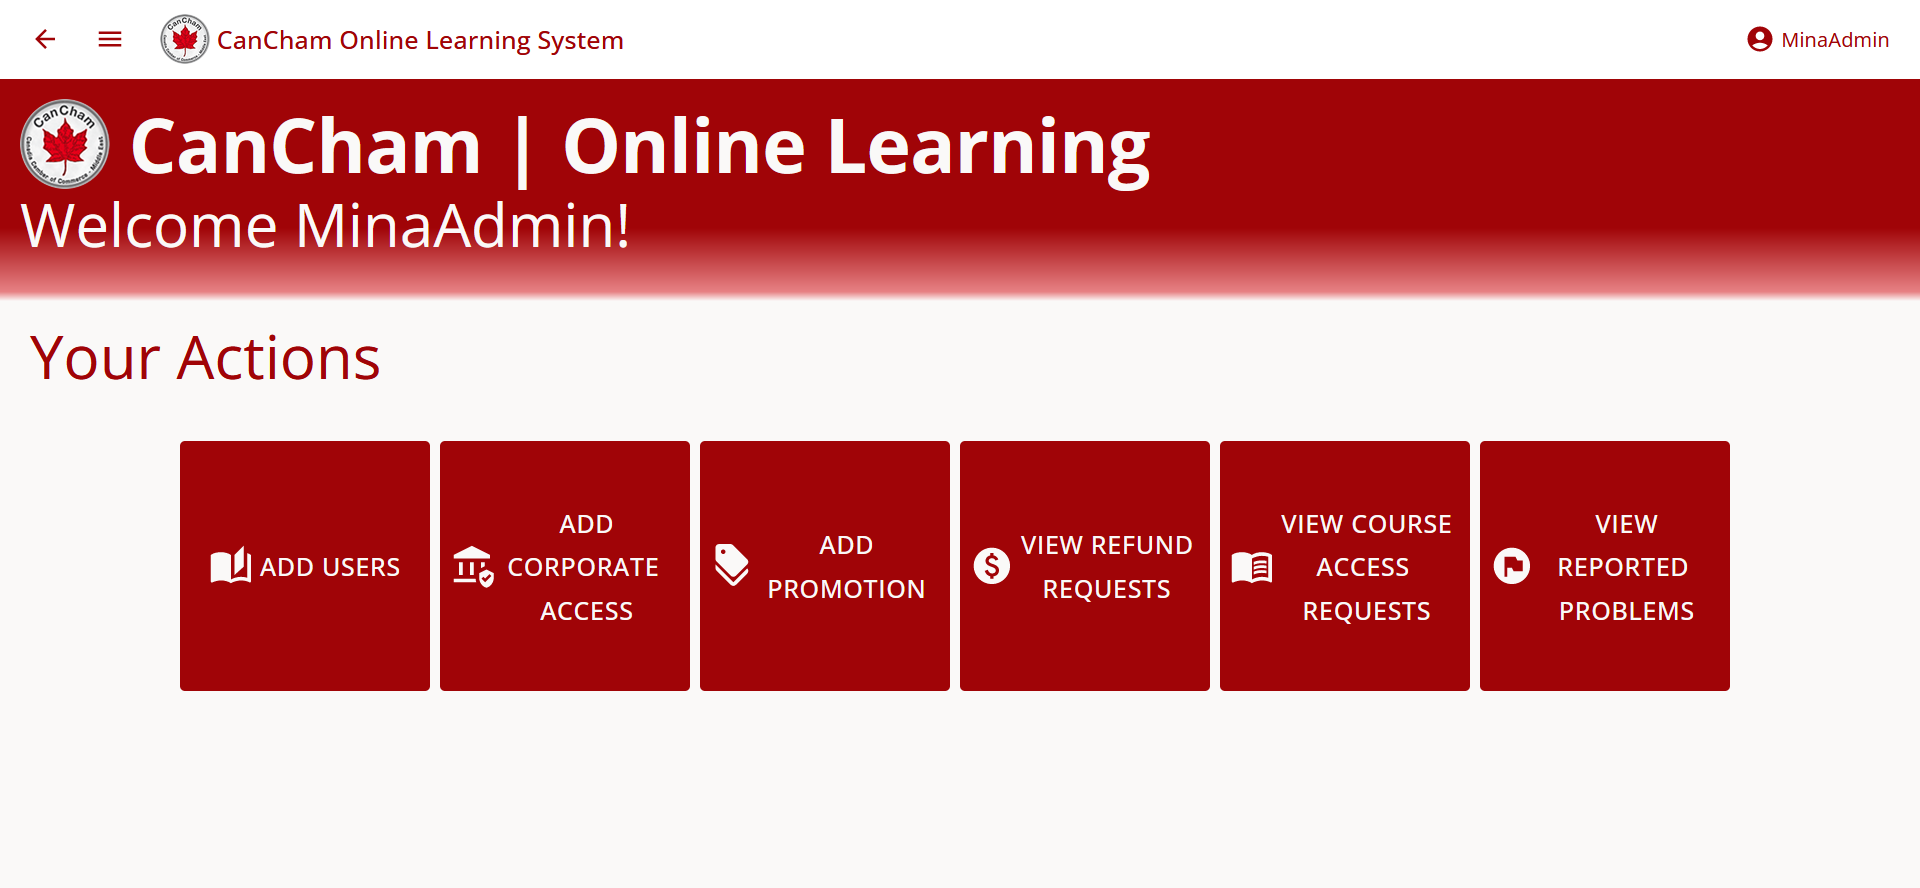
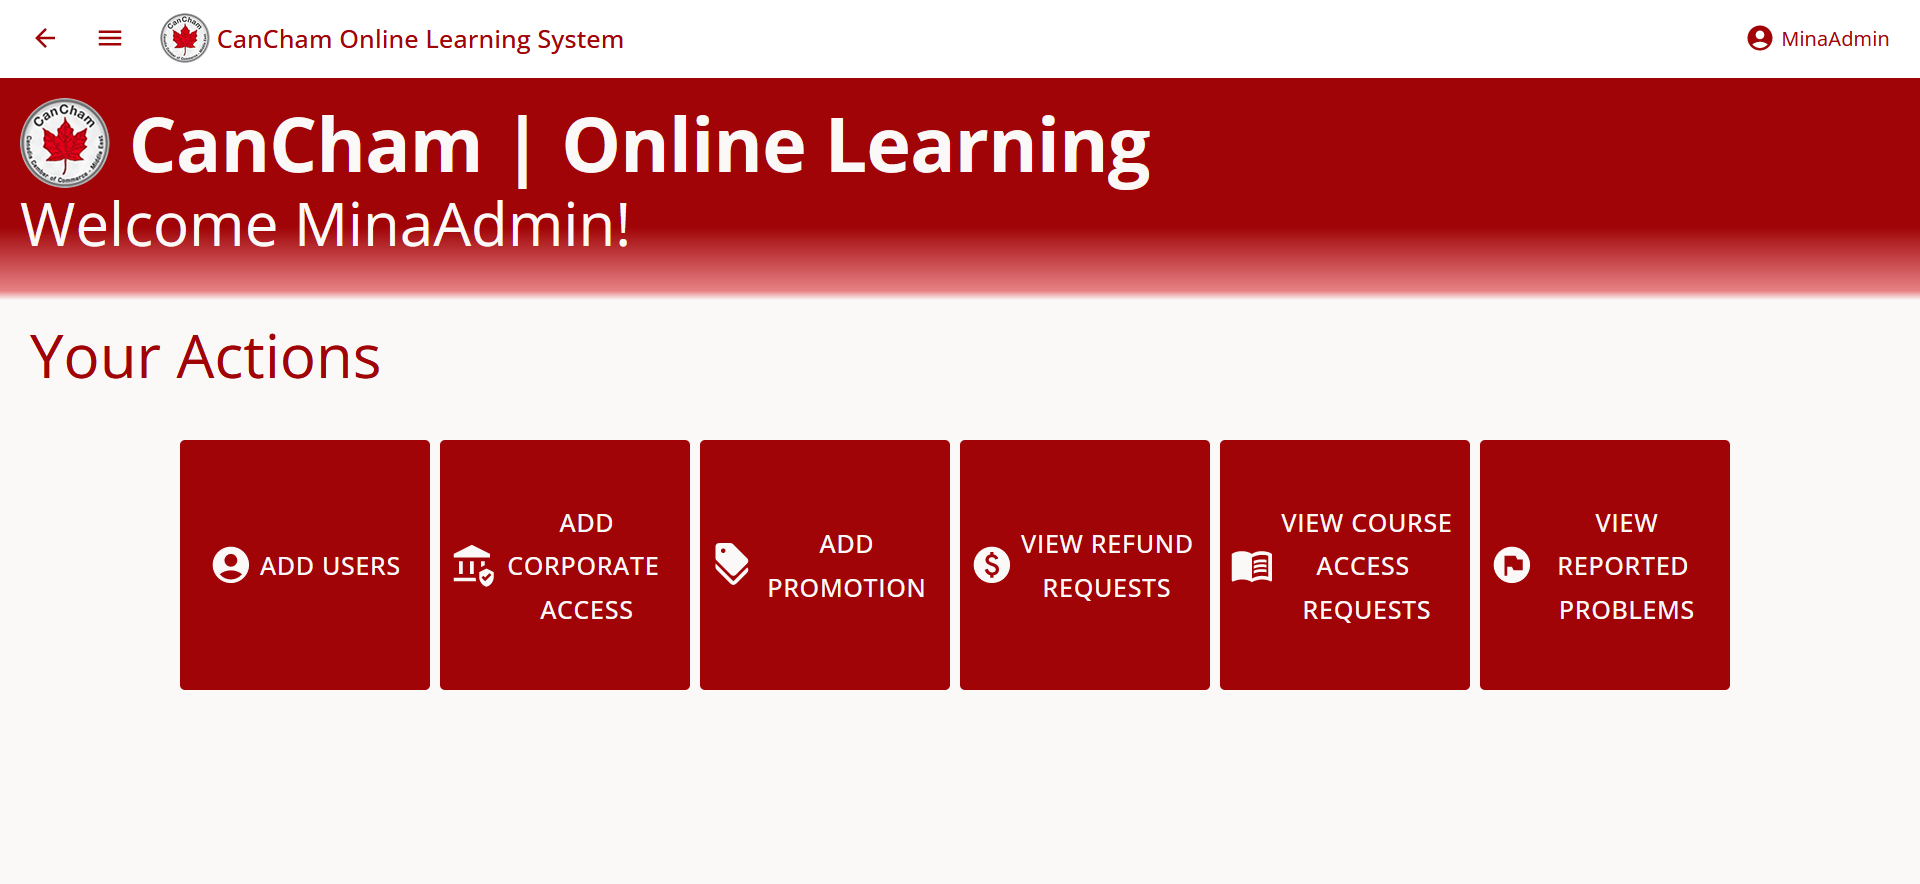
Admin Dashboard

diff --git a/front-app/src/Pages/AdminPages/Home.js b/front-app/src/Pages/AdminPages/Home.js
@@ -3,7 +3,7 @@ import FormControlLabel from '@mui/material/FormControlLabel';
 import Checkbox from '@mui/material/Checkbox';
 import Link from '@mui/material/Link';
 import Grid from '@mui/material/Grid';
-import LockOutlinedIcon from '@mui/icons-material/LockOutlined';
+import AccountCircle from '@mui/icons-material/AccountCircle';
 import { Typography, Box, Container, CssBaseline, Button, FormHelperText, Select, MenuItem, Rating, CircularProgress, Avatar } from '@mui/material';
 import { createTheme, ThemeProvider } from '@mui/material/styles';
 import { connect } from "react-redux";
@@ -43,7 +43,7 @@ export const Home = ({ auth, logout, viewRequests, viewRefunds}) => {
       </Box>
       <Typography variant="h3" sx={{ color: "var(--secColor)", mb: 5 }}>Your Actions</Typography>
       <Box sx={centered_flex_box}>
-        <Button onClick={() => { navigate("/Admin/addUsers") }} sx={{ width: 200, height: 200, fontSize: 20, mr: 1, ...main_button }}><AutoStoriesIcon fontSize='large' /> Add Users</Button>
+        <Button onClick={() => { navigate("/Admin/addUsers") }} sx={{ width: 200, height: 200, fontSize: 20, mr: 1, ...main_button }}><AccountCircle fontSize='large' /> Add Users</Button>
         <Button onClick={() => { navigate("/Admin/access") }} sx={{ width: 200, height: 200, fontSize: 20, mr: 1, ...main_button }}><AssuredWorkloadIcon fontSize='large' /> Add corporate access</Button>
         <Button onClick={() => { navigate("/Admin/promotions") }} sx={{ width: 200, height: 200, fontSize: 20, mr: 1, ...main_button }}><DiscountIcon fontSize='large' /> Add Promotion</Button><br/>
         <Button onClick={() => { viewRefunds({ info: { page: 1 }, token: auth?.token }); navigate("/Admin/requests") }} sx={{ width: 200, height: 200, fontSize: 20, mr: 1, ...main_button }}><PaidIcon fontSize='large' /> view Refund Requests</Button>
